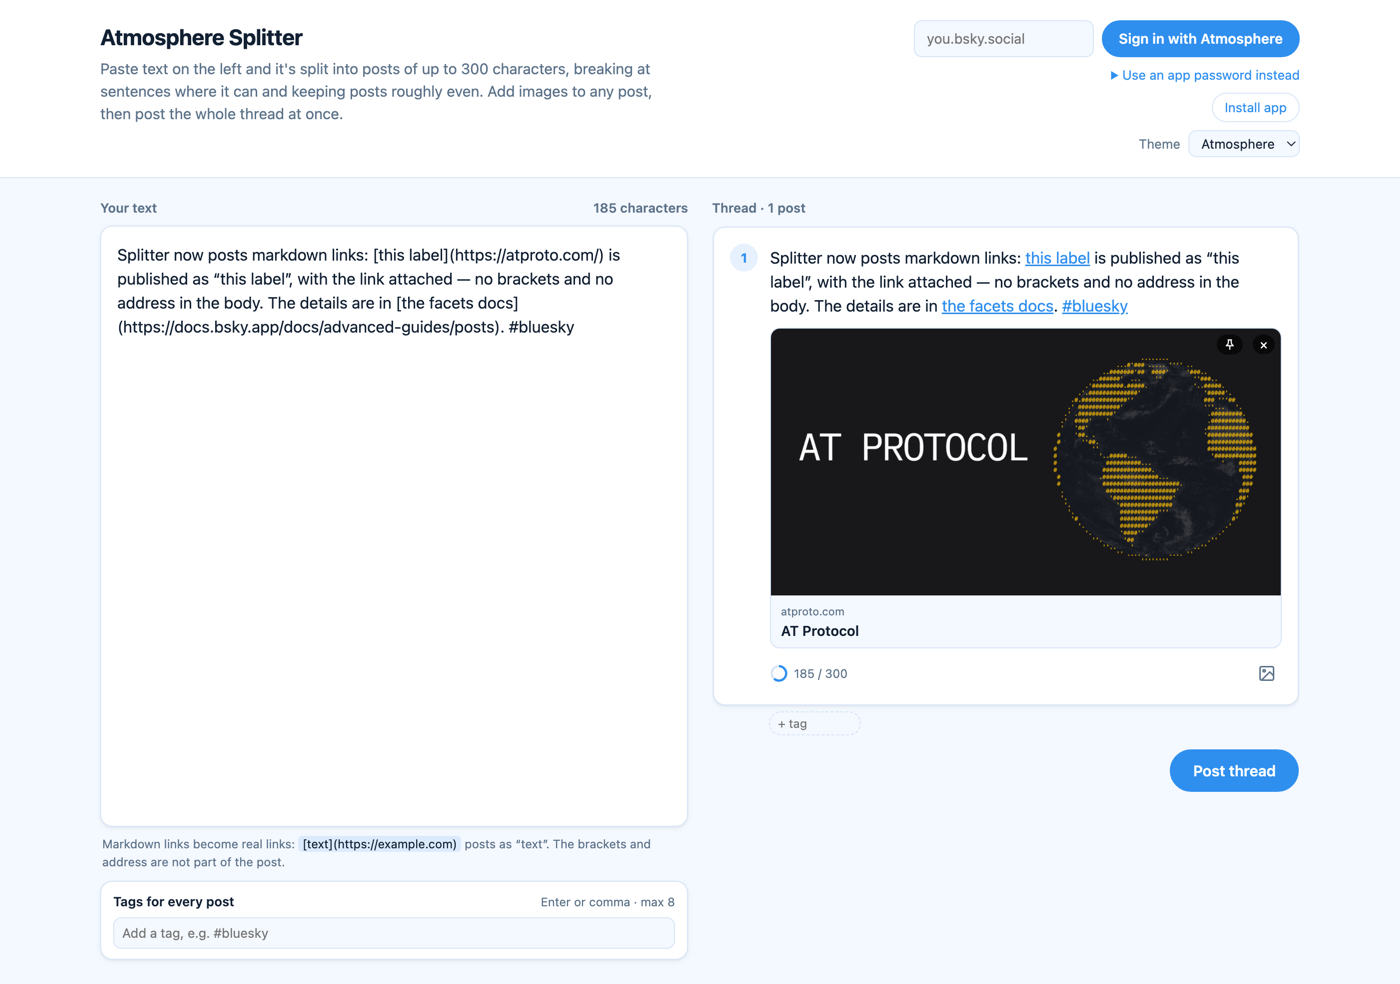
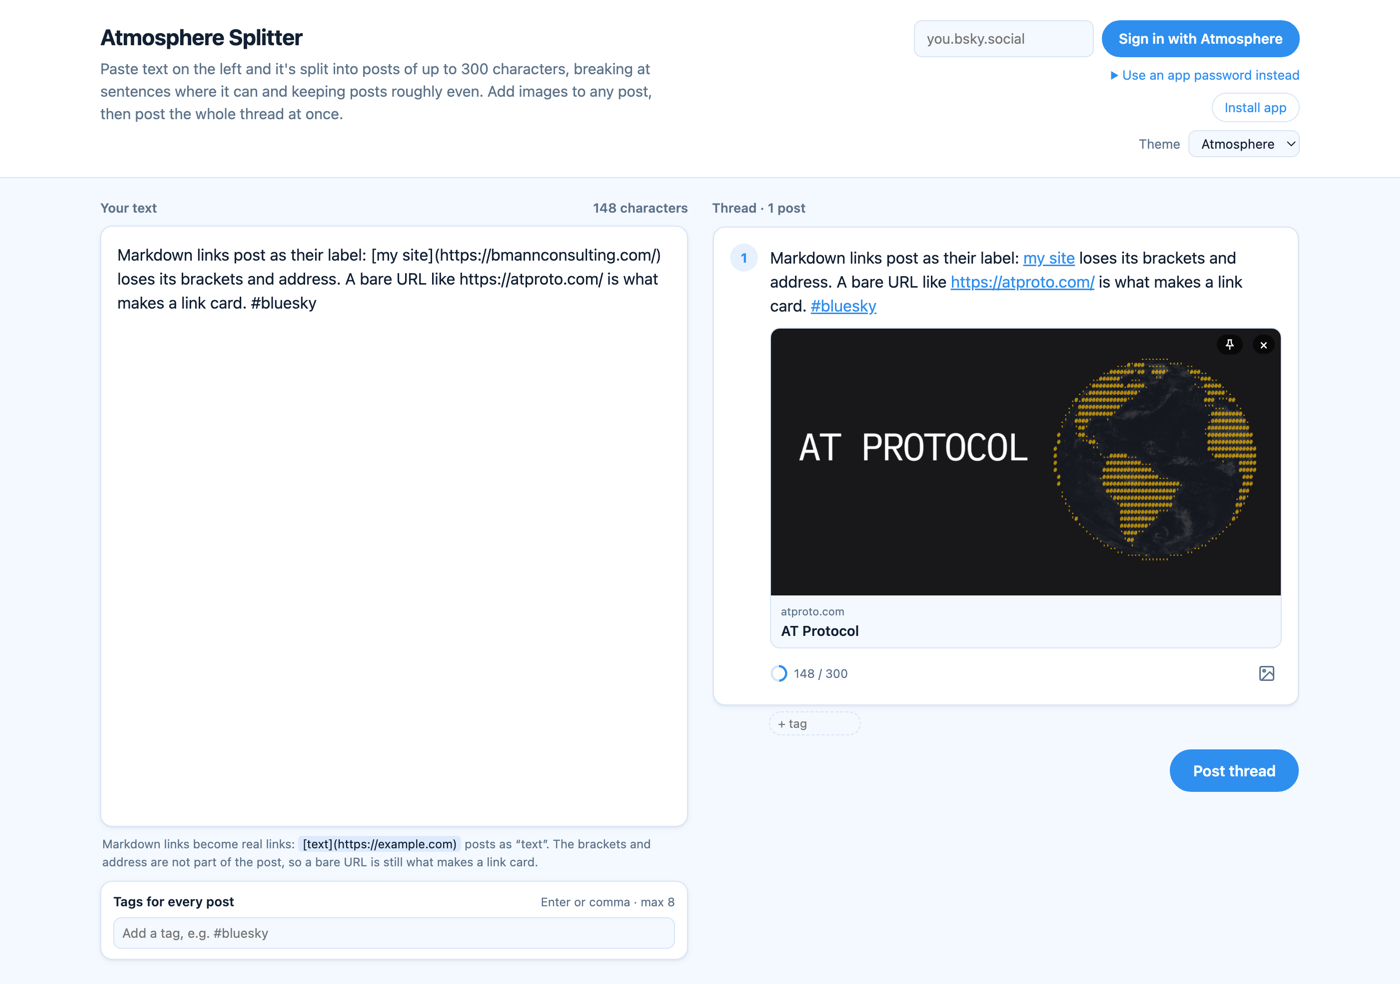
Keep markdown links out of link cards and quotes
A markdown link posts its label and nothing else, so there is no address
left in the post to embed. firstUrl() reads bare URLs only: a markdown
target no longer produces a card, a quote, or a cardyb fetch, and a
bsky.app link written as markdown is no longer a quote. A bare URL in the
text (or a pin) still is.

Say so in the composer hint, the README and the CLAUDE.md rules, and
reshoot the section's screenshot to show the split: the label is a link,
the card comes from the bare URL beside it. Bump the cache to v17.

Changed region(s): [[0.0921, 0.2439, 0.4607, 0.3354], [0.5529, 0.2439, 0.8907, 0.3354], [0.215, 0.8537, 0.3686, 0.8841]]

diff --git a/index.html b/index.html
@@ -419,7 +419,8 @@
     <div class="col-head"><span>Your text</span><span id="total"></span></div>
     <textarea id="input" placeholder="Paste your text here…" autofocus></textarea>
     <p class="md-hint">Markdown links become real links: <code>[text](https://example.com)</code> posts as
-      “text”. The brackets and address are not part of the post.</p>
+      “text”. The brackets and address are not part of the post, so a bare URL is still what makes a
+      link card.</p>
     <div class="tags-panel">
       <div class="tags-head">
         <label for="threadTagInput">Tags for every post</label>
@@ -676,12 +677,11 @@ const cards = new Map();     // url -> { state: 'loading' | 'ready' | 'empty' | 
 const quotes = new Map();    // url -> { state: 'loading' | 'ready' | 'empty' | 'failed', data, promise, settled }
 const previewsOff = new Set();  // urls whose preview the user dropped
 
-const firstUrl = (text, links) => {
+// The URL that earns a preview: only a bare URL in the post text counts. A markdown link is a
+// facet and nothing more — the label is all that is posted, so there is no address to embed.
+const firstUrl = text => {
   const m = text.match(URL_RE);
-  const bare = m ? trimUrl(m[0]) : null;
-  const at = bare ? text.indexOf(bare) : Infinity;
-  const link = links?.[0];
-  return link && link.start < at ? link.uri : bare;
+  return m ? trimUrl(m[0]) : null;
 };
 
 function hostOf(uri) {
@@ -813,9 +813,9 @@ async function quoteEmbed(url) {
   };
 }
 
-// The embed for a post: its first URL, else a pinned preview. A bsky.app post becomes a quote.
-async function embedFor(text, i, auth, links) {
-  const url = firstUrl(text, links);
+// The embed for a post: its first bare URL, else a pinned preview. A bsky.app post becomes a quote.
+async function embedFor(text, i, auth) {
+  const url = firstUrl(text);
   if (url && previewsOff.has(url)) return null;
   const source = url || pins[i]?.url || null;
   if (!source) return null;
@@ -1385,7 +1385,7 @@ async function postThread() {
         }
         record.embed = { $type: 'app.bsky.embed.images', images };
       } else {
-        const embed = await embedFor(text, i, auth, postLinkSpans);
+        const embed = await embedFor(text, i, auth);
         if (embed) record.embed = embed;
       }
       const { uri, cid } = await auth.xrpc('com.atproto.repo.createRecord',
@@ -2164,9 +2164,9 @@ function quoteNode(entry) {
 }
 
 // Paint the preview, or explain why there isn't one, for a post that has no images.
-function renderPreview(slot, i, text, links) {
+function renderPreview(slot, i, text) {
   slot.replaceChildren();
-  const url = firstUrl(text, links);
+  const url = firstUrl(text);
   const pinnedUrl = pins[i]?.url || null;
   const shown = url || pinnedUrl;
   if (!shown) return;
@@ -2314,7 +2314,7 @@ function render() {
     });
 
     // A preview is only possible when the post has no images: images win in the record.
-    if (!imgs.length) renderPreview(card.querySelector('.card-slot'), i, postText, links);
+    if (!imgs.length) renderPreview(card.querySelector('.card-slot'), i, postText);
 
     const wrap = document.createElement('div');
     wrap.className = 'post-wrap';

diff --git a/sw.js b/sw.js
@@ -1,7 +1,7 @@
 // Caches the app shell so Splitter opens offline.
 // Cross-origin requests are never intercepted: posting, identity resolution and link
 // previews must always hit the network, and a cached POST would be a lie.
-const VERSION = 'splitter-v16';
+const VERSION = 'splitter-v17';
 const SHELL = [
   './',
   './index.html',

diff --git a/CLAUDE.md b/CLAUDE.md
@@ -11,8 +11,8 @@ Splits pasted text into a thread and posts it to Bluesky. See `README.md`.
 - The GitHub Pages site is served from `gh-pages` (static files + `client-metadata.json` + `.nojekyll`). Copy app changes from `main` to that branch when deploying — `index.html`, `sw.js`, `manifest.webmanifest`, `icons/` and `themes/` — and leave its `client-metadata.json`, `CNAME` and `.nojekyll` alone; the metadata document is host-specific.
 - Never cache cross-origin requests in `sw.js`, and never put tokens in local storage.
 - Mentions resolve to DIDs before `createRecord`; a failed lookup must always fall back to plain text. Typeahead queries are debounced and cached, and the service is a third party (`typeahead.waow.tech`), so keep the `X-Client` header set.
-- Markdown links are the one place where what the user typed and what gets posted differ: `renderLinks()` turns `[label](uri)` into `label` plus a link span, `maskLinks()` hides each link behind a placeholder so the splitter measures the label and never cuts through one, and everything that counts, paints or publishes a post goes through `finalPost()`/`postLinks()`. `record.text` must never contain the markdown. Only `http(s)` targets count, labels longer than a post stay literal, and `segments()` puts link spans first so a `#tag` or `@handle` inside a label stays link text.
-- Link cards are fetched once while typing and reused at post time — never fetch `cardyb` again inside `postThread()`. A failed card fetch must never block splitting or posting, and the thumbnail slot must say why it is empty.
+- Markdown links are the one place where what the user typed and what gets posted differ: `renderLinks()` turns `[label](uri)` into `label` plus a link span, `maskLinks()` hides each link behind a placeholder so the splitter measures the label and never cuts through one, and everything that counts, paints or publishes a post goes through `finalPost()`/`postLinks()`. `record.text` must never contain the markdown. A markdown link is a facet and nothing else — it must never feed `firstUrl()`/`embedFor()`, because the posted text has no address; link cards and quotes come from a bare URL in the post text (or a pin). Only `http(s)` targets count, labels longer than a post stay literal, and `segments()` puts link spans first so a `#tag` or `@handle` inside a label stays link text.
+- Link cards are fetched once while typing and reused at post time — never fetch `cardyb` again inside `postThread()`. The URL is the first bare URL in the post text (`firstUrl()`), never a markdown link's target and never a URL that the body no longer contains. A failed card fetch must never block splitting or posting, and the thumbnail slot must say why it is empty.
 - A `bsky.app/profile/…/post/…` URL is a quote, not an external card: resolve it to `{ uri, cid }` through `public.api.bsky.app` (`getPosts`) and post `app.bsky.embed.record`. Cache by URL and reuse the resolved CID at post time; quoting is still an `app.bsky.feed.post` create, so `app.bsky.authCreatePosts` already covers it.
 - Pinned previews live in `pins[i]` by post slot, like `media[i]`, and the preview shows which slot holds one. `embedFor(text, i, auth)` uses the URL in the text first, then the pin; images still win. Clear pins in `resetComposer`, and keep an Unpin path for a pinned preview whose fetch failed.
 - A continuation keeps `root` (the original first ref) and `parent` (the last published ref) on the thread; `refs[0]` is only the root of a first segment. A failed segment must keep its continuation state so Resume replies from the same parent.

diff --git a/README.md b/README.md
@@ -53,8 +53,10 @@ you post:   Read my post today.
 
 The character count and the splitter both measure the post as it will be published, so a link costs
 its label, not the markdown — and a link is never cut in half between two posts: it moves whole to
-the next one. A markdown link is also the URL the link card (or a quote, for a `bsky.app` post link)
-is built from, and the input shows a reminder of the syntax under the text box.
+the next one. A markdown link is only a facet: it never becomes the embedded link card or quote,
+because the address is no longer in the post. Paste a bare URL when you want a preview — that is
+still what `cardyb` and the quote lookup are handed. The input shows a reminder of the syntax under
+the text box.
 
 Anything the app can't turn into a link stays exactly as typed rather than being dropped: images
 (`![alt](url)`), escaped brackets (`\[not a link\]`), addresses without `http(s)://`, malformed
